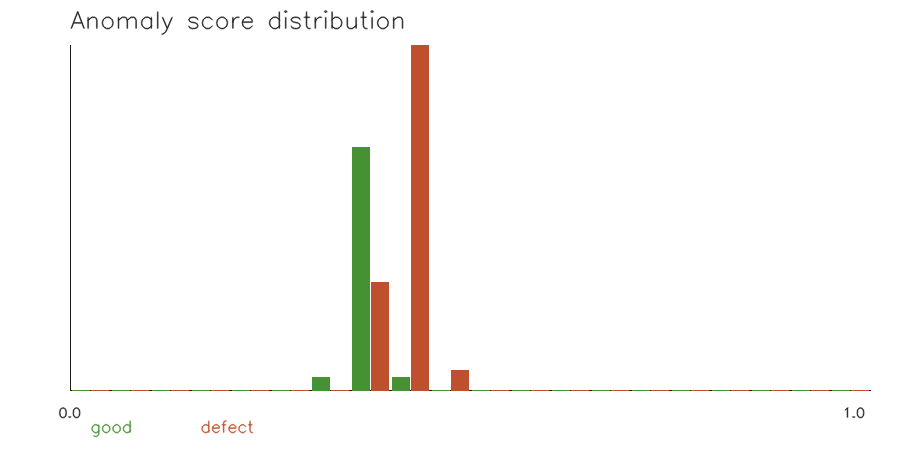
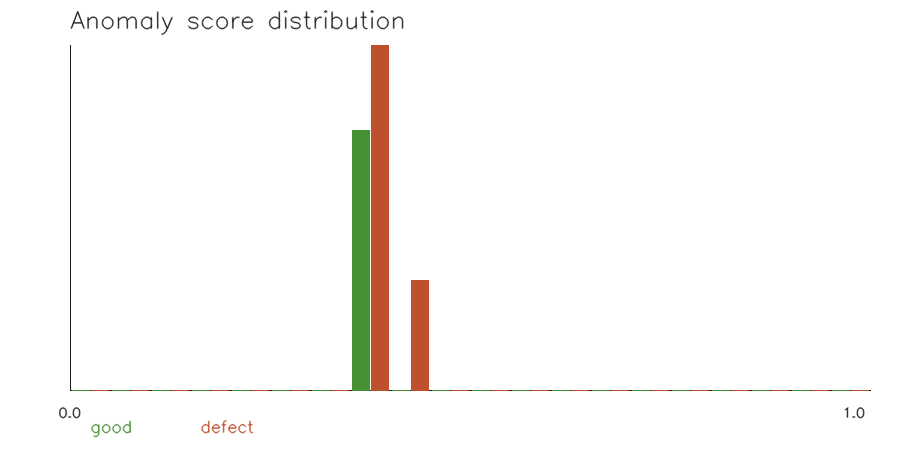
Update hazelnut vision eval report (#11)

diff --git a/src/factorylens/vision/eval_baseline.py b/src/factorylens/vision/eval_baseline.py
@@ -283,9 +283,10 @@ def write_results_markdown(
     settings: dict[str, object],
 ) -> None:
     label_stats = _label_stats(samples)
+    per_defect_metrics = _per_defect_metrics(samples)
     verdict = _verdict(auroc, metrics.accuracy)
     lines = [
-        "# Hazelnut Baseline Mini-Eval",
+        "# Hazelnut Baseline Eval",
         "",
         f"Verdict: {verdict}",
         "",
@@ -305,6 +306,9 @@ def write_results_markdown(
         f"- Accuracy at threshold: {metrics.accuracy:.3f}",
         f"- Precision: {metrics.precision:.3f}",
         f"- Recall: {metrics.recall:.3f}",
+        f"- Recommended demo threshold: `anomaly_threshold = {metrics.threshold:.4f}`",
+        "- Đề xuất `anomaly_threshold = "
+        f"{metrics.threshold:.4f}` cho Bao cập nhật `config.py`.",
         "",
         "| Metric | Count |",
         "|---|---:|",
@@ -322,6 +326,29 @@ def write_results_markdown(
         stats = label_stats[label]
         lines.append(
             f"| {label} | {stats['count']} | {stats['mean']:.4f} | {stats['min']:.4f} | {stats['max']:.4f} |"
+        )
+
+    lines.extend(
+        [
+            "",
+            "## Per-Defect Threshold Check",
+            "",
+            "Each row compares one defect type against all good samples. These "
+            "thresholds are diagnostic only; keep the overall threshold as the "
+            "single demo recommendation unless Bao decides otherwise.",
+            "",
+            "| Defect type | Threshold | Accuracy | Precision | Recall | TP | FP | TN | FN |",
+            "|---|---:|---:|---:|---:|---:|---:|---:|---:|",
+        ]
+    )
+    for label in DEFECT_LABELS:
+        label_metrics = per_defect_metrics[label]
+        lines.append(
+            f"| {label} | {label_metrics.threshold:.4f} | "
+            f"{label_metrics.accuracy:.3f} | {label_metrics.precision:.3f} | "
+            f"{label_metrics.recall:.3f} | {label_metrics.true_positive} | "
+            f"{label_metrics.false_positive} | {label_metrics.true_negative} | "
+            f"{label_metrics.false_negative} |"
         )
 
     lines.extend(
@@ -350,7 +377,8 @@ def write_results_markdown(
             "## Notes",
             "",
             "- This is a compact CPU-oriented baseline, not a SOTA detector.",
-            "- Threshold is chosen from this mini-eval and should be treated as a demo default.",
+            "- Threshold is chosen from this eval and should be treated as a demo default.",
+            "- False positives/false negatives are still expected because score ranges overlap.",
             "- B6 region counts are smoke evidence only; visual localization quality still needs review.",
             "",
         ]
@@ -408,6 +436,15 @@ def _label_stats(samples: list[SampleScore]) -> dict[str, dict[str, float]]:
             "max": float(np.max(scores)),
         }
     return stats
+
+
+def _per_defect_metrics(samples: list[SampleScore]) -> dict[str, ThresholdMetrics]:
+    metrics: dict[str, ThresholdMetrics] = {}
+    good_samples = [sample for sample in samples if not sample.is_defect]
+    for label in DEFECT_LABELS:
+        label_samples = [sample for sample in samples if sample.label == label]
+        metrics[label] = choose_threshold([*good_samples, *label_samples])
+    return metrics
 
 
 def _verdict(auroc: float, accuracy: float) -> str:

diff --git a/tests/test_eval_baseline.py b/tests/test_eval_baseline.py
@@ -8,6 +8,7 @@ pytest.importorskip("torchvision")
 
 from factorylens.vision.eval_baseline import (
     SampleScore,
+    _per_defect_metrics,
     choose_threshold,
     compute_auroc,
 )
@@ -51,3 +52,19 @@ def test_choose_threshold_reports_confusion_counts():
     assert metrics.false_positive == 0
     assert metrics.false_negative == 0
     assert 0.2 < metrics.threshold < 0.6
+
+
+def test_per_defect_metrics_compare_each_label_against_good():
+    samples = [
+        SampleScore("good-1.png", "good", False, 0.1),
+        SampleScore("good-2.png", "good", False, 0.2),
+        SampleScore("crack-1.png", "crack", True, 0.7),
+        SampleScore("cut-1.png", "cut", True, 0.6),
+        SampleScore("hole-1.png", "hole", True, 0.8),
+        SampleScore("print-1.png", "print", True, 0.9),
+    ]
+
+    metrics = _per_defect_metrics(samples)
+
+    assert set(metrics) == {"crack", "cut", "hole", "print"}
+    assert all(item.accuracy == pytest.approx(1.0) for item in metrics.values())

diff --git a/assets/eval_samples/RESULTS.md b/assets/eval_samples/RESULTS.md
@@ -1,40 +1,53 @@
-# Hazelnut Baseline Mini-Eval
+# Hazelnut Baseline Eval
 
 Verdict: PASS
 
 ## Settings
 
 - Dataset: `data/mvtec/hazelnut`
-- Train good images in memory bank: 24
-- Patches per train image: 24
-- Eval image size: 96
+- Train good images in memory bank: 128
+- Patches per train image: 32
+- Eval image size: 512
 - Region smoke threshold: 0.35
 
 ## Image-Level Results
 
 - Samples: 110 (40 good, 70 defect)
-- AUROC: 0.943
-- Chosen threshold: 0.3884
-- Accuracy at threshold: 0.900
-- Precision: 0.940
+- AUROC: 0.892
+- Chosen threshold: 0.3768
+- Accuracy at threshold: 0.855
+- Precision: 0.875
 - Recall: 0.900
+- Recommended demo threshold: `anomaly_threshold = 0.3768`
+- Đề xuất `anomaly_threshold = 0.3768` cho Bao cập nhật `config.py`.
 
 | Metric | Count |
 |---|---:|
 | True positive | 63 |
-| False positive | 4 |
-| True negative | 36 |
+| False positive | 9 |
+| True negative | 31 |
 | False negative | 7 |
 
 ## Score Summary
 
 | Label | Count | Mean | Min | Max |
 |---|---:|---:|---:|---:|
-| good | 40 | 0.3731 | 0.3447 | 0.4037 |
-| crack | 18 | 0.4195 | 0.3965 | 0.4518 |
-| cut | 17 | 0.3949 | 0.3619 | 0.4250 |
-| hole | 18 | 0.4227 | 0.3888 | 0.4547 |
-| print | 17 | 0.4181 | 0.3809 | 0.4545 |
+| good | 40 | 0.3717 | 0.3503 | 0.3880 |
+| crack | 18 | 0.3982 | 0.3602 | 0.4214 |
+| cut | 17 | 0.3801 | 0.3683 | 0.3928 |
+| hole | 18 | 0.3852 | 0.3630 | 0.3989 |
+| print | 17 | 0.3974 | 0.3682 | 0.4128 |
+
+## Per-Defect Threshold Check
+
+Each row compares one defect type against all good samples. These thresholds are diagnostic only; keep the overall threshold as the single demo recommendation unless Bao decides otherwise.
+
+| Defect type | Threshold | Accuracy | Precision | Recall | TP | FP | TN | FN |
+|---|---:|---:|---:|---:|---:|---:|---:|---:|
+| crack | 0.3838 | 0.948 | 0.895 | 0.944 | 17 | 2 | 38 | 1 |
+| cut | 0.3768 | 0.772 | 0.591 | 0.765 | 13 | 9 | 31 | 4 |
+| hole | 0.3784 | 0.845 | 0.696 | 0.889 | 16 | 7 | 33 | 2 |
+| print | 0.3820 | 0.930 | 0.882 | 0.882 | 15 | 2 | 38 | 2 |
 
 ## Distribution
 
@@ -44,17 +57,19 @@ Verdict: PASS
 
 | Role | Label | Score | Pred defect? | Regions | File |
 |---|---|---:|---|---:|---|
-| highest_defect | hole | 0.4547 | yes | 1 | eval_highest_defect_hole_012_heatmap.png |
-![highest_defect](eval_highest_defect_hole_012_heatmap.png)
+| highest_defect | crack | 0.4214 | yes | 9 | eval_highest_defect_crack_008_heatmap.png |
+![highest_defect](eval_highest_defect_crack_008_heatmap.png)
 
-| lowest_defect | cut | 0.3619 | no | 3 | eval_lowest_defect_cut_000_heatmap.png |
-![lowest_defect](eval_lowest_defect_cut_000_heatmap.png)
+| lowest_defect | crack | 0.3602 | no | 11 | eval_lowest_defect_crack_005_heatmap.png |
+![lowest_defect](eval_lowest_defect_crack_005_heatmap.png)
 
-| highest_good | good | 0.4037 | yes | 1 | eval_highest_good_good_035_heatmap.png |
-![highest_good](eval_highest_good_good_035_heatmap.png)
+| highest_good | good | 0.3880 | yes | 12 | eval_highest_good_good_036_heatmap.png |
+![highest_good](eval_highest_good_good_036_heatmap.png)
 
 ## Notes
 
 - This is a compact CPU-oriented baseline, not a SOTA detector.
-- Threshold is chosen from this mini-eval and should be treated as a demo default.
+- Threshold is chosen from this eval and should be treated as a demo default.
+- False positives/false negatives are still expected because score ranges overlap.
+- Cut and hole are the weakest groups in this run; their scores overlap with good samples more than crack/print.
 - B6 region counts are smoke evidence only; visual localization quality still needs review.